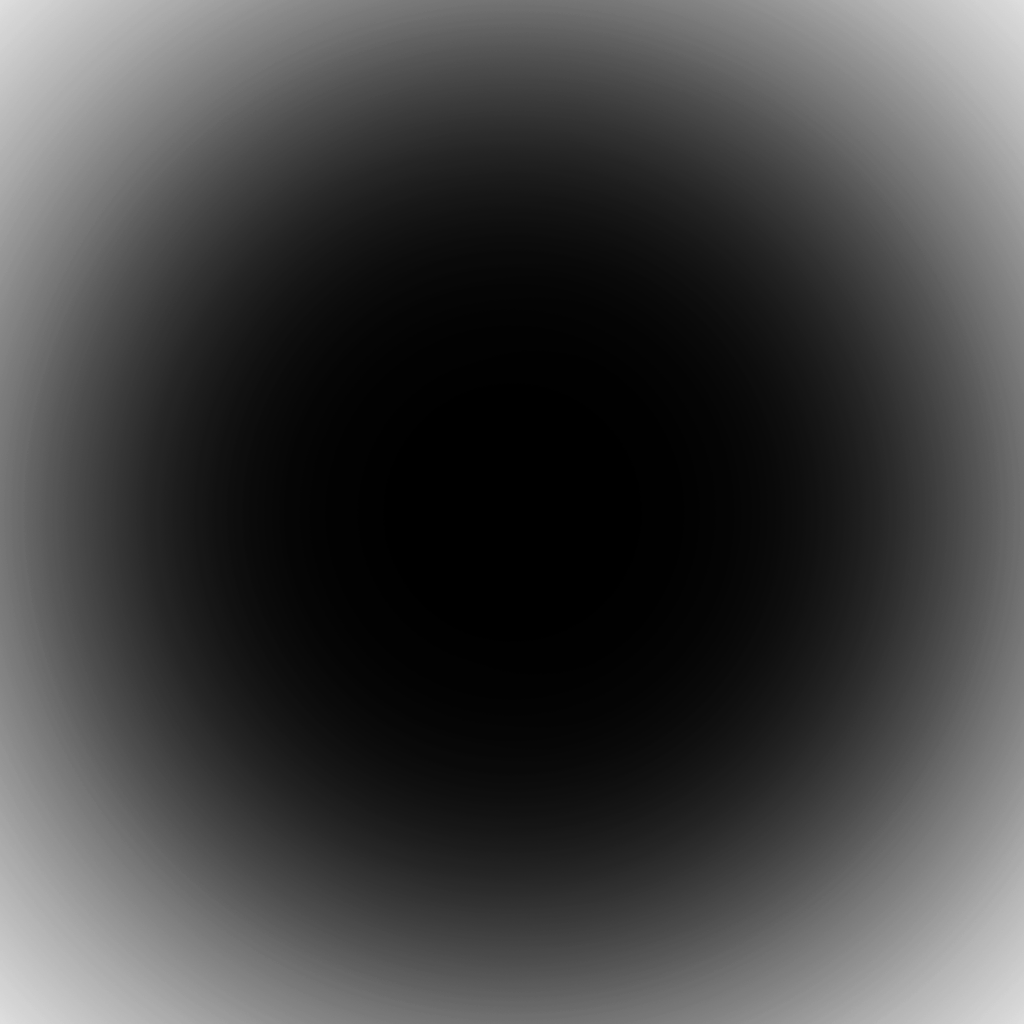
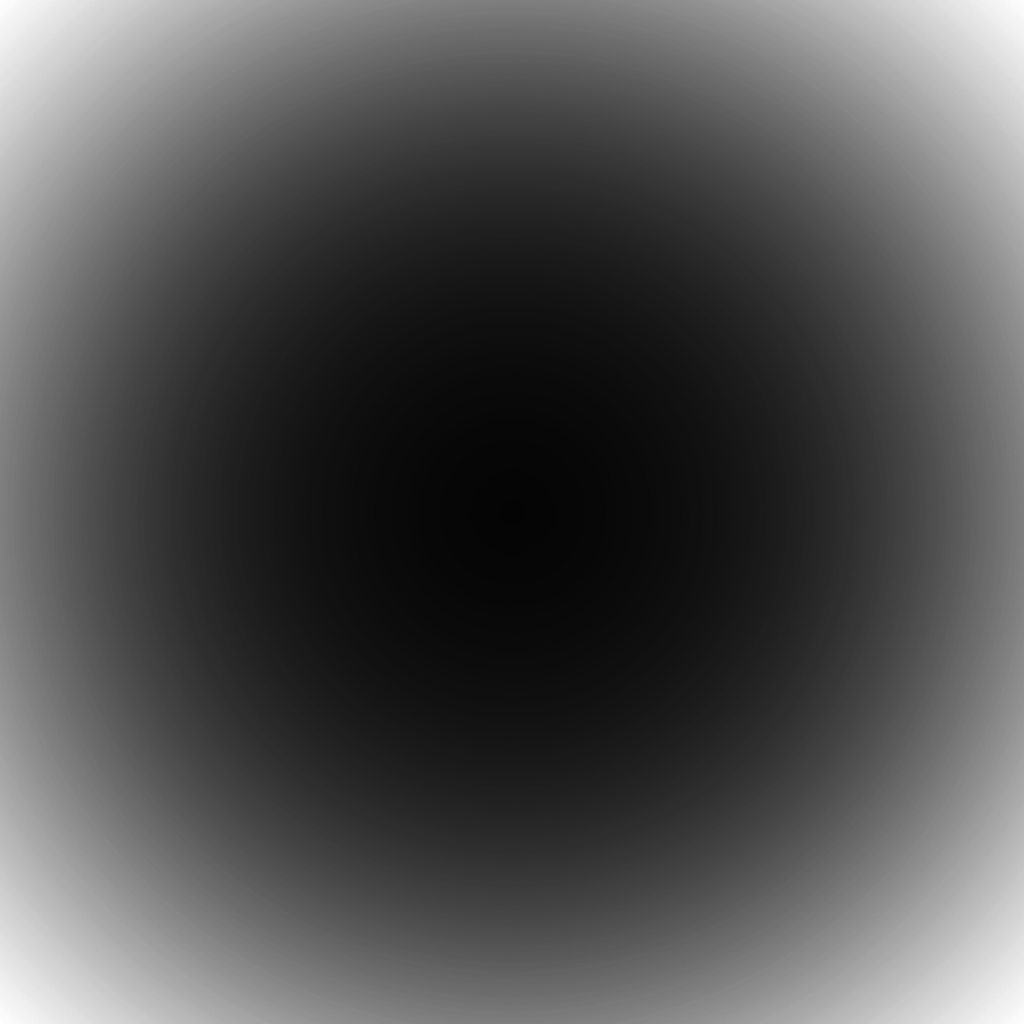
vignette

diff --git a/Assets/Sieb/ScreenVignette_Script.cs b/Assets/Sieb/ScreenVignette_Script.cs
@@ -12,7 +12,7 @@ public class ScreenVignette_Script : MonoBehaviour {
     void Start () {
         VignetteQuad = GameObject.FindGameObjectWithTag("Vignette");
         Vignette = VignetteQuad.GetComponent<Renderer>().material;
-        Switch = false;
+        Switch = true;
 	}
 	
 	// Update is called once per frame
